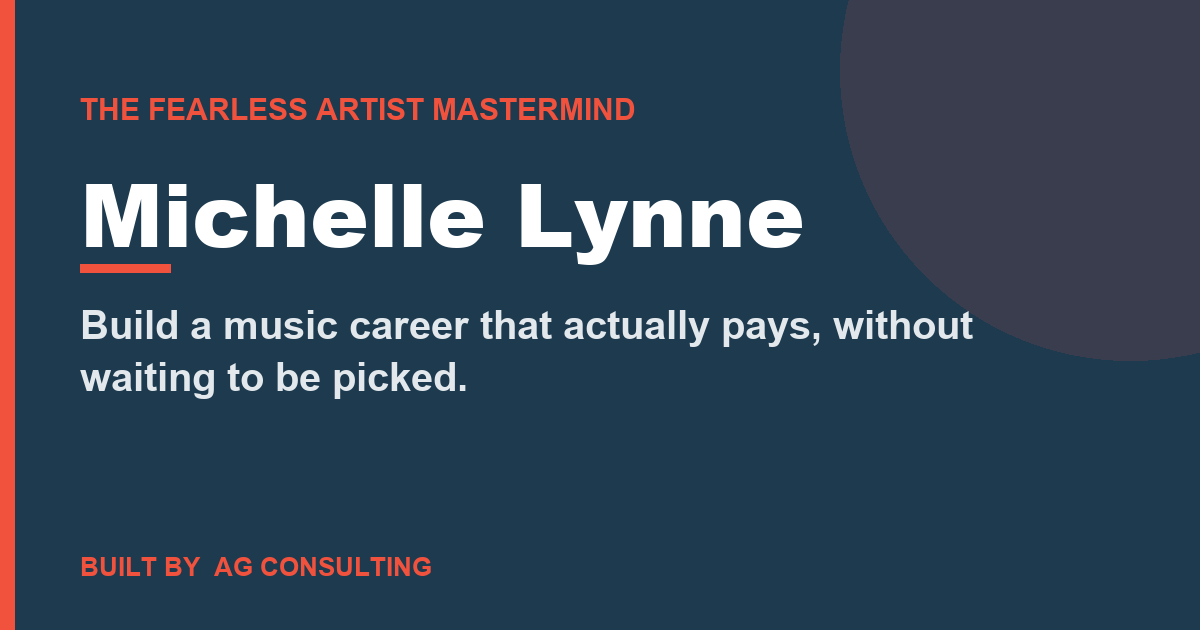
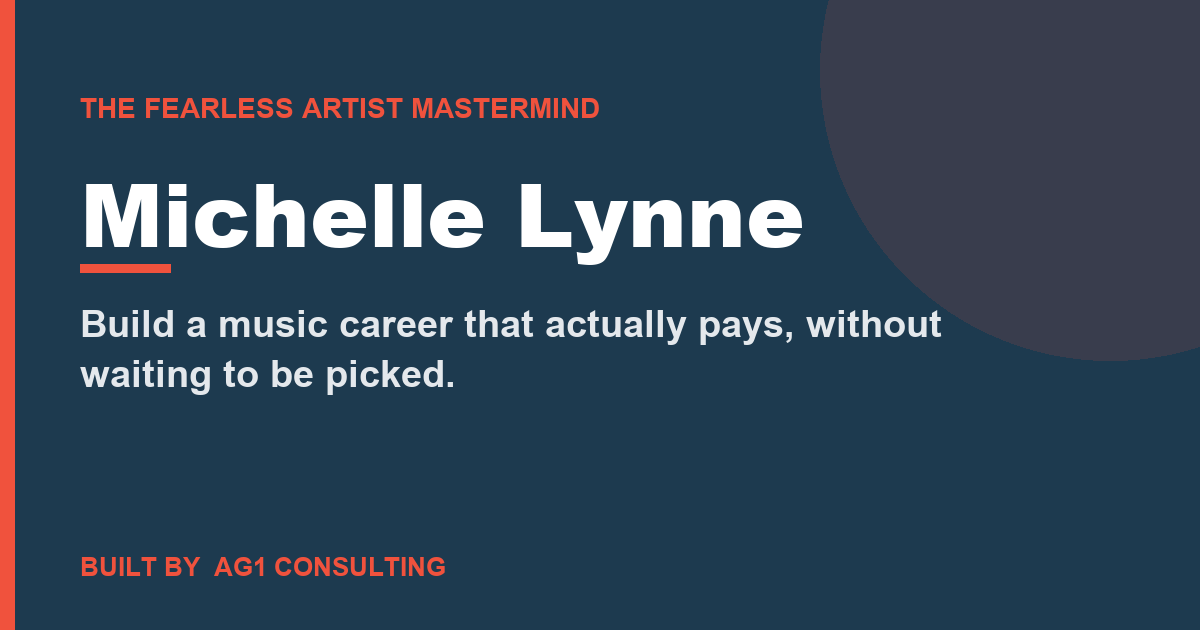
Deploy hub + docs + proof

diff --git a/index.html b/index.html
@@ -90,7 +90,7 @@
 
 <nav>
   <div class="nav-inner">
-    <div class="wordmark"><span class="ag">AG</span> <span class="co">CONSULTING</span></div>
+    <div class="wordmark"><span class="ag">AG1</span> <span class="co">CONSULTING</span></div>
     <a href="https://calendly.com/ag-copy/call-with-andrei" class="nav-cta">Book a Call</a>
   </div>
 </nav>
@@ -99,7 +99,7 @@
   <div class="wrap">
     <span class="badge reveal">Built Exclusively For Michelle Lynne</span>
     <div class="brand-row reveal">
-      <div class="brand-block"><span class="gold-text">AG</span> <span style="color:var(--white)">CONSULTING</span></div>
+      <div class="brand-block"><span class="gold-text">AG1</span> <span style="color:var(--white)">CONSULTING</span></div>
       <span class="brand-x">for</span>
       <div class="brand-block" style="color:var(--white)">MICHELLE LYNNE</div>
     </div>
@@ -222,12 +222,13 @@
     <h2>Ready to build this for real?</h2>
     <p>Everything above was built specifically for you, Michelle. Imagine what we'd do wired into your podcast, your list, and the Mastermind intake.</p>
     <a href="https://calendly.com/ag-copy/call-with-andrei" class="btn-link" target="_blank" rel="noopener">Book a call with Andrei</a>
+    <p style="color:var(--gold-flat);font-weight:700;font-size:0.9rem;margin:18px 0 0;letter-spacing:.02em;">Over $1M in client revenue generated. One operator.</p>
   </div>
 
 </div>
 
 <footer>
-  <div class="wordmark"><span class="ag gold-text">AG</span> <span class="co">CONSULTING</span></div>
+  <div class="wordmark"><span class="ag gold-text">AG1</span> <span class="co">CONSULTING</span></div>
   <div>High-ticket offers and marketing systems, done for you.</div>
 </footer>
 
